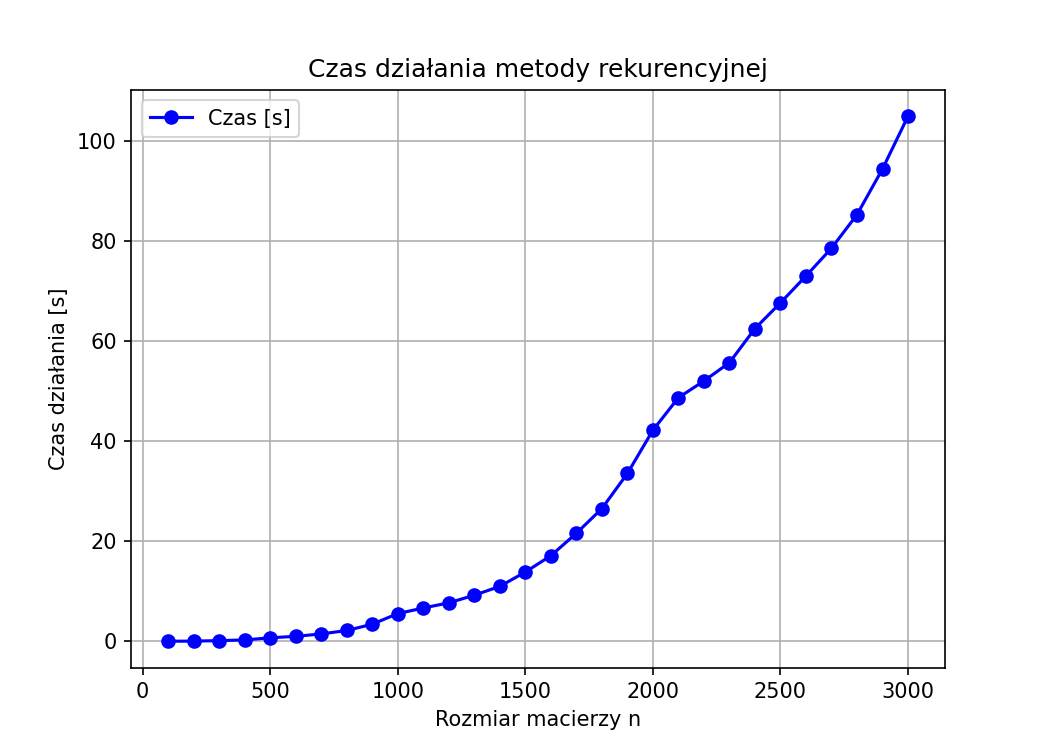
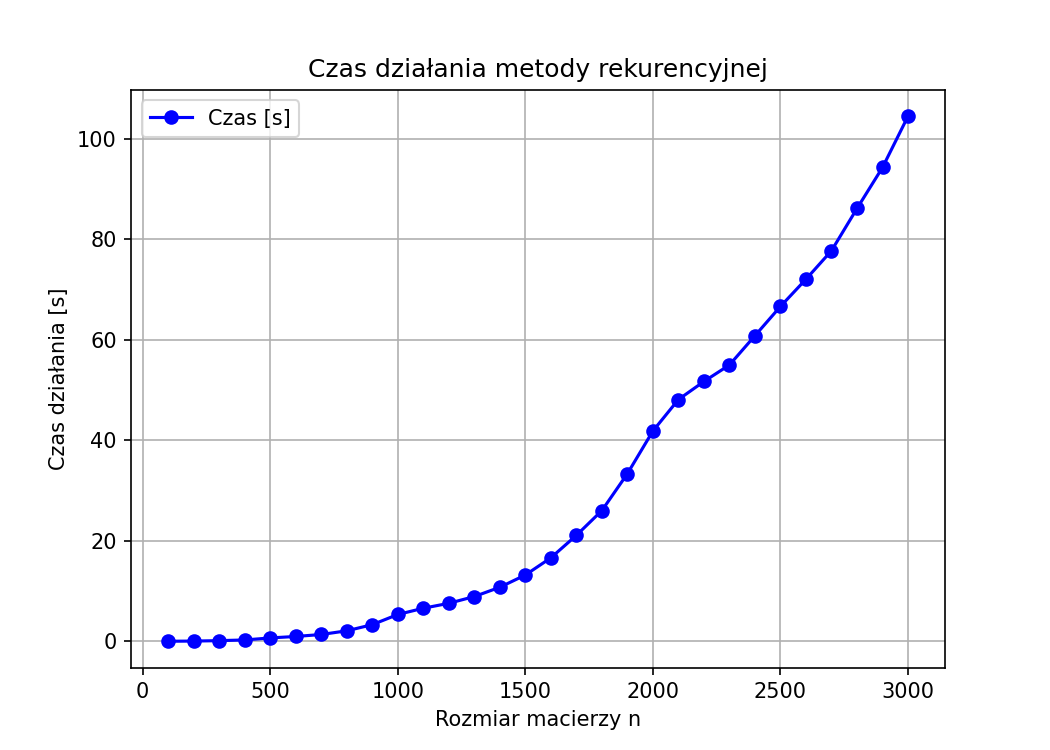
Added FLOP counters
Added floating-point scalar operation counters.

diff --git a/lab1/src/multiply_binet.cpp b/lab1/src/multiply_binet.cpp
@@ -2,19 +2,21 @@
 #include <vector>
 #include "multiply_binet.hpp"
 
+#include <iostream>
+
 // Tworzy pustą macierz o wymiarach rows x cols
 Matrix createMatrix(int rows, int cols, double value) {
     return Matrix(rows, std::vector<double>(cols, value));
 }
 
 // Rekurencyjne mnożenie fragmentów macierzy
-void multiplyRecursive(
+std::pair<long long, long long> multiplyRecursive(
     const Matrix& A, int a_row, int a_col,
     const Matrix& B, int b_row, int b_col,
     Matrix& C, int c_row, int c_col,
     int m, int n, int p)
 {
-
+    long long fadd_counter = 0, fmult_counter = 0;
     // x_col, x_row - lewy górny róg rozważanej podmacierzy
 
     // m - liczba wierszy A, n - liczba kolumn A (i wierszy B), p - liczba kolumn B
@@ -22,14 +24,15 @@ void multiplyRecursive(
     // przypadek brzegowy - mnożenie samych liczb
     if (m == 1 && n == 1 && p == 1) {
         C[c_row][c_col] += A[a_row][a_col] * B[b_row][b_col];
-        return;
+        ++fadd_counter, ++fmult_counter;
+        return std::make_pair(fadd_counter, fmult_counter);
     }
 
     // Przy dzieleniu może wyjść wymiar równy zero - to znaczy że
     // dzieliliśmy macierz, której któryś z wymiarów był równy jeden.
     // To jest odpowiednik mnożenia przez 0 przy paddingu.
     if (m == 0 || n == 0 || p == 0)
-        return;
+        return std::make_pair(0, 0);
 
     // jeśli któryś wymiar = 1, możesz zamiast schodzić dalej zrobić klasyczne mnożenie
     // (ja w sumie nie rozumiem czemu to jest potrzebne, ale bez tego testy się wywalają, a czat mówi że ma być XD)
@@ -37,8 +40,9 @@ void multiplyRecursive(
         for (int i = 0; i < m; ++i)
             for (int j = 0; j < p; ++j)
                 for (int k = 0; k < n; ++k)
-                    C[c_row + i][c_col + j] += A[a_row + i][a_col + k] * B[b_row + k][b_col + j];
-        return;
+                    C[c_row + i][c_col + j] += A[a_row + i][a_col + k] * B[b_row + k][b_col + j],
+                    ++fadd_counter, ++fmult_counter;
+        return std::make_pair(fadd_counter, fmult_counter);
     }
     
     
@@ -104,41 +108,51 @@ void multiplyRecursive(
     
     // --------------------------------C11--------------------------------
 
+    std::pair<long long, long long> recursive_count;
     // A11 * B11
-    multiplyRecursive(A, a11_row, a11_col, B, b11_row, b11_col, C, c11_row, c11_col, m2, n2, p2);
+    recursive_count = multiplyRecursive(A, a11_row, a11_col, B, b11_row, b11_col, C, c11_row, c11_col, m2, n2, p2);
+    fadd_counter += recursive_count.first, fmult_counter += recursive_count.second;
     // A12 * B21
-    multiplyRecursive(A, a12_row, a12_col, B, b21_row, b21_col, C, c11_row, c11_col, m2, n-n2, p2);
+    recursive_count = multiplyRecursive(A, a12_row, a12_col, B, b21_row, b21_col, C, c11_row, c11_col, m2, n-n2, p2);
+    fadd_counter += recursive_count.first, fmult_counter += recursive_count.second;
 
 
     // --------------------------------C12--------------------------------
 
     // A11 * B12
-    multiplyRecursive(A, a11_row, a11_col, B, b12_row, b12_col, C, c12_row, c12_col, m2, n2, p-p2);
+    recursive_count = multiplyRecursive(A, a11_row, a11_col, B, b12_row, b12_col, C, c12_row, c12_col, m2, n2, p-p2);
+    fadd_counter += recursive_count.first, fmult_counter += recursive_count.second;
     // A12 * B22
-    multiplyRecursive(A, a12_row, a12_col, B, b22_row, b22_col, C, c12_row, c12_col, m2, n-n2, p-p2);
+    recursive_count = multiplyRecursive(A, a12_row, a12_col, B, b22_row, b22_col, C, c12_row, c12_col, m2, n-n2, p-p2);
+    fadd_counter += recursive_count.first, fmult_counter += recursive_count.second;
     
     
     // --------------------------------C21--------------------------------
 
 
     // A21 * B11
-    multiplyRecursive(A, a21_row, a21_col, B, b11_row, b11_col, C, c21_row, c21_col, m-m2, n2, p2);
+    recursive_count = multiplyRecursive(A, a21_row, a21_col, B, b11_row, b11_col, C, c21_row, c21_col, m-m2, n2, p2);
+    fadd_counter += recursive_count.first, fmult_counter += recursive_count.second;
     
     // A22 * B21
-    multiplyRecursive(A, a22_row, a22_col, B, b21_row, b21_col, C, c21_row, c21_col, m-m2, n-n2, p2);
+    recursive_count = multiplyRecursive(A, a22_row, a22_col, B, b21_row, b21_col, C, c21_row, c21_col, m-m2, n-n2, p2);
+    fadd_counter += recursive_count.first, fmult_counter += recursive_count.second;
 
     // --------------------------------C22--------------------------------
     
     // A21 * B12
-    multiplyRecursive(A, a21_row, a21_col, B, b12_row, b12_col, C, c22_row, c22_col, m-m2, n2, p-p2); 
+    recursive_count = multiplyRecursive(A, a21_row, a21_col, B, b12_row, b12_col, C, c22_row, c22_col, m-m2, n2, p-p2); 
+    fadd_counter += recursive_count.first, fmult_counter += recursive_count.second;
     
     // A22 * B22
-    multiplyRecursive(A, a22_row, a22_col, B, b22_row, b22_col, C, c22_row, c22_col, m-m2, n-n2, p-p2);
-
+    recursive_count = multiplyRecursive(A, a22_row, a22_col, B, b22_row, b22_col, C, c22_row, c22_col, m-m2, n-n2, p-p2);
+    fadd_counter += recursive_count.first, fmult_counter += recursive_count.second;
+    
+    return std::make_pair(fadd_counter, fmult_counter);
 }
 
 // Funkcja pomocnicza — uruchamia mnożenie rekurencyjne
-Matrix multiplyBinet(const Matrix& A, const Matrix& B) {
+Matrix multiplyBinet(const Matrix& A, const Matrix& B, long long *fadd_count = nullptr, long long *fmult_count = nullptr) {
     int m = A.size();          // wiersze A
     int n = A[0].size();       // kolumny A = wiersze B
     int p = B[0].size();       // kolumny B
@@ -147,6 +161,12 @@ Matrix multiplyBinet(const Matrix& A, const Matrix& B) {
         throw std::invalid_argument("Niepoprawne rozmiary macierzy, mnożenie niemożliwe");
 
     Matrix C = createMatrix(m, p);
-    multiplyRecursive(A, 0, 0, B, 0, 0, C, 0, 0, m, n, p);
+    long long fadd_counter, fmult_counter;
+    std::tie(fadd_counter, fmult_counter) = multiplyRecursive(A, 0, 0, B, 0, 0, C, 0, 0, m, n, p);
+    if(fadd_count != nullptr)
+        *fadd_count = fadd_counter;
+    if(fmult_count != nullptr)
+        *fmult_count = fmult_counter;
+
     return C;
 }

diff --git a/lab1/src/main.cpp b/lab1/src/main.cpp
@@ -17,7 +17,7 @@ using namespace std;
 // Tworzy losową macierz kwadratową
 Matrix randomMatrix(int n, int seed = 0) {
     mt19937 gen(seed);
-    uniform_real_distribution<double> dist(-5.0, 5.0);
+    uniform_real_distribution<double> dist(0.00000001, 1.0);
     Matrix M(n, vector<double>(n));
     for (int i = 0; i < n; ++i)
         for (int j = 0; j < n; ++j)
@@ -46,22 +46,24 @@ double getMemoryUsageMB() {
 int main() {
     // Zapis wyników do pliku
     ofstream out("results.csv");
-    out << "n,time_seconds,mem_delta_MB\n";
+    out << "n,time_seconds,mem_delta_MB,fadd_count,fmult_count\n";
 
     for (int n = 100; n <= 3000; n += 100) {
         cout << "Measuring n = " << n << "...\n";
 
         Matrix A = randomMatrix(n, n);
         Matrix B = randomMatrix(n, n);
+        Matrix C;
+        long long fadd_count, fmult_count;
 
         double t1 = measureTime([&]() {
-            auto C = multiplyBinet(A, B);
+            C = multiplyBinet(A, B, &fadd_count, &fmult_count);
         });
 
         double mem_after = getMemoryUsageMB();
 
         out << n << "," << fixed << setprecision(8) << t1
-            << "," << setprecision(4) << mem_after << "\n";
+            << "," << setprecision(4) << mem_after << "," << fadd_count << "," << fmult_count << "\n";
     }
 
     out.close();
